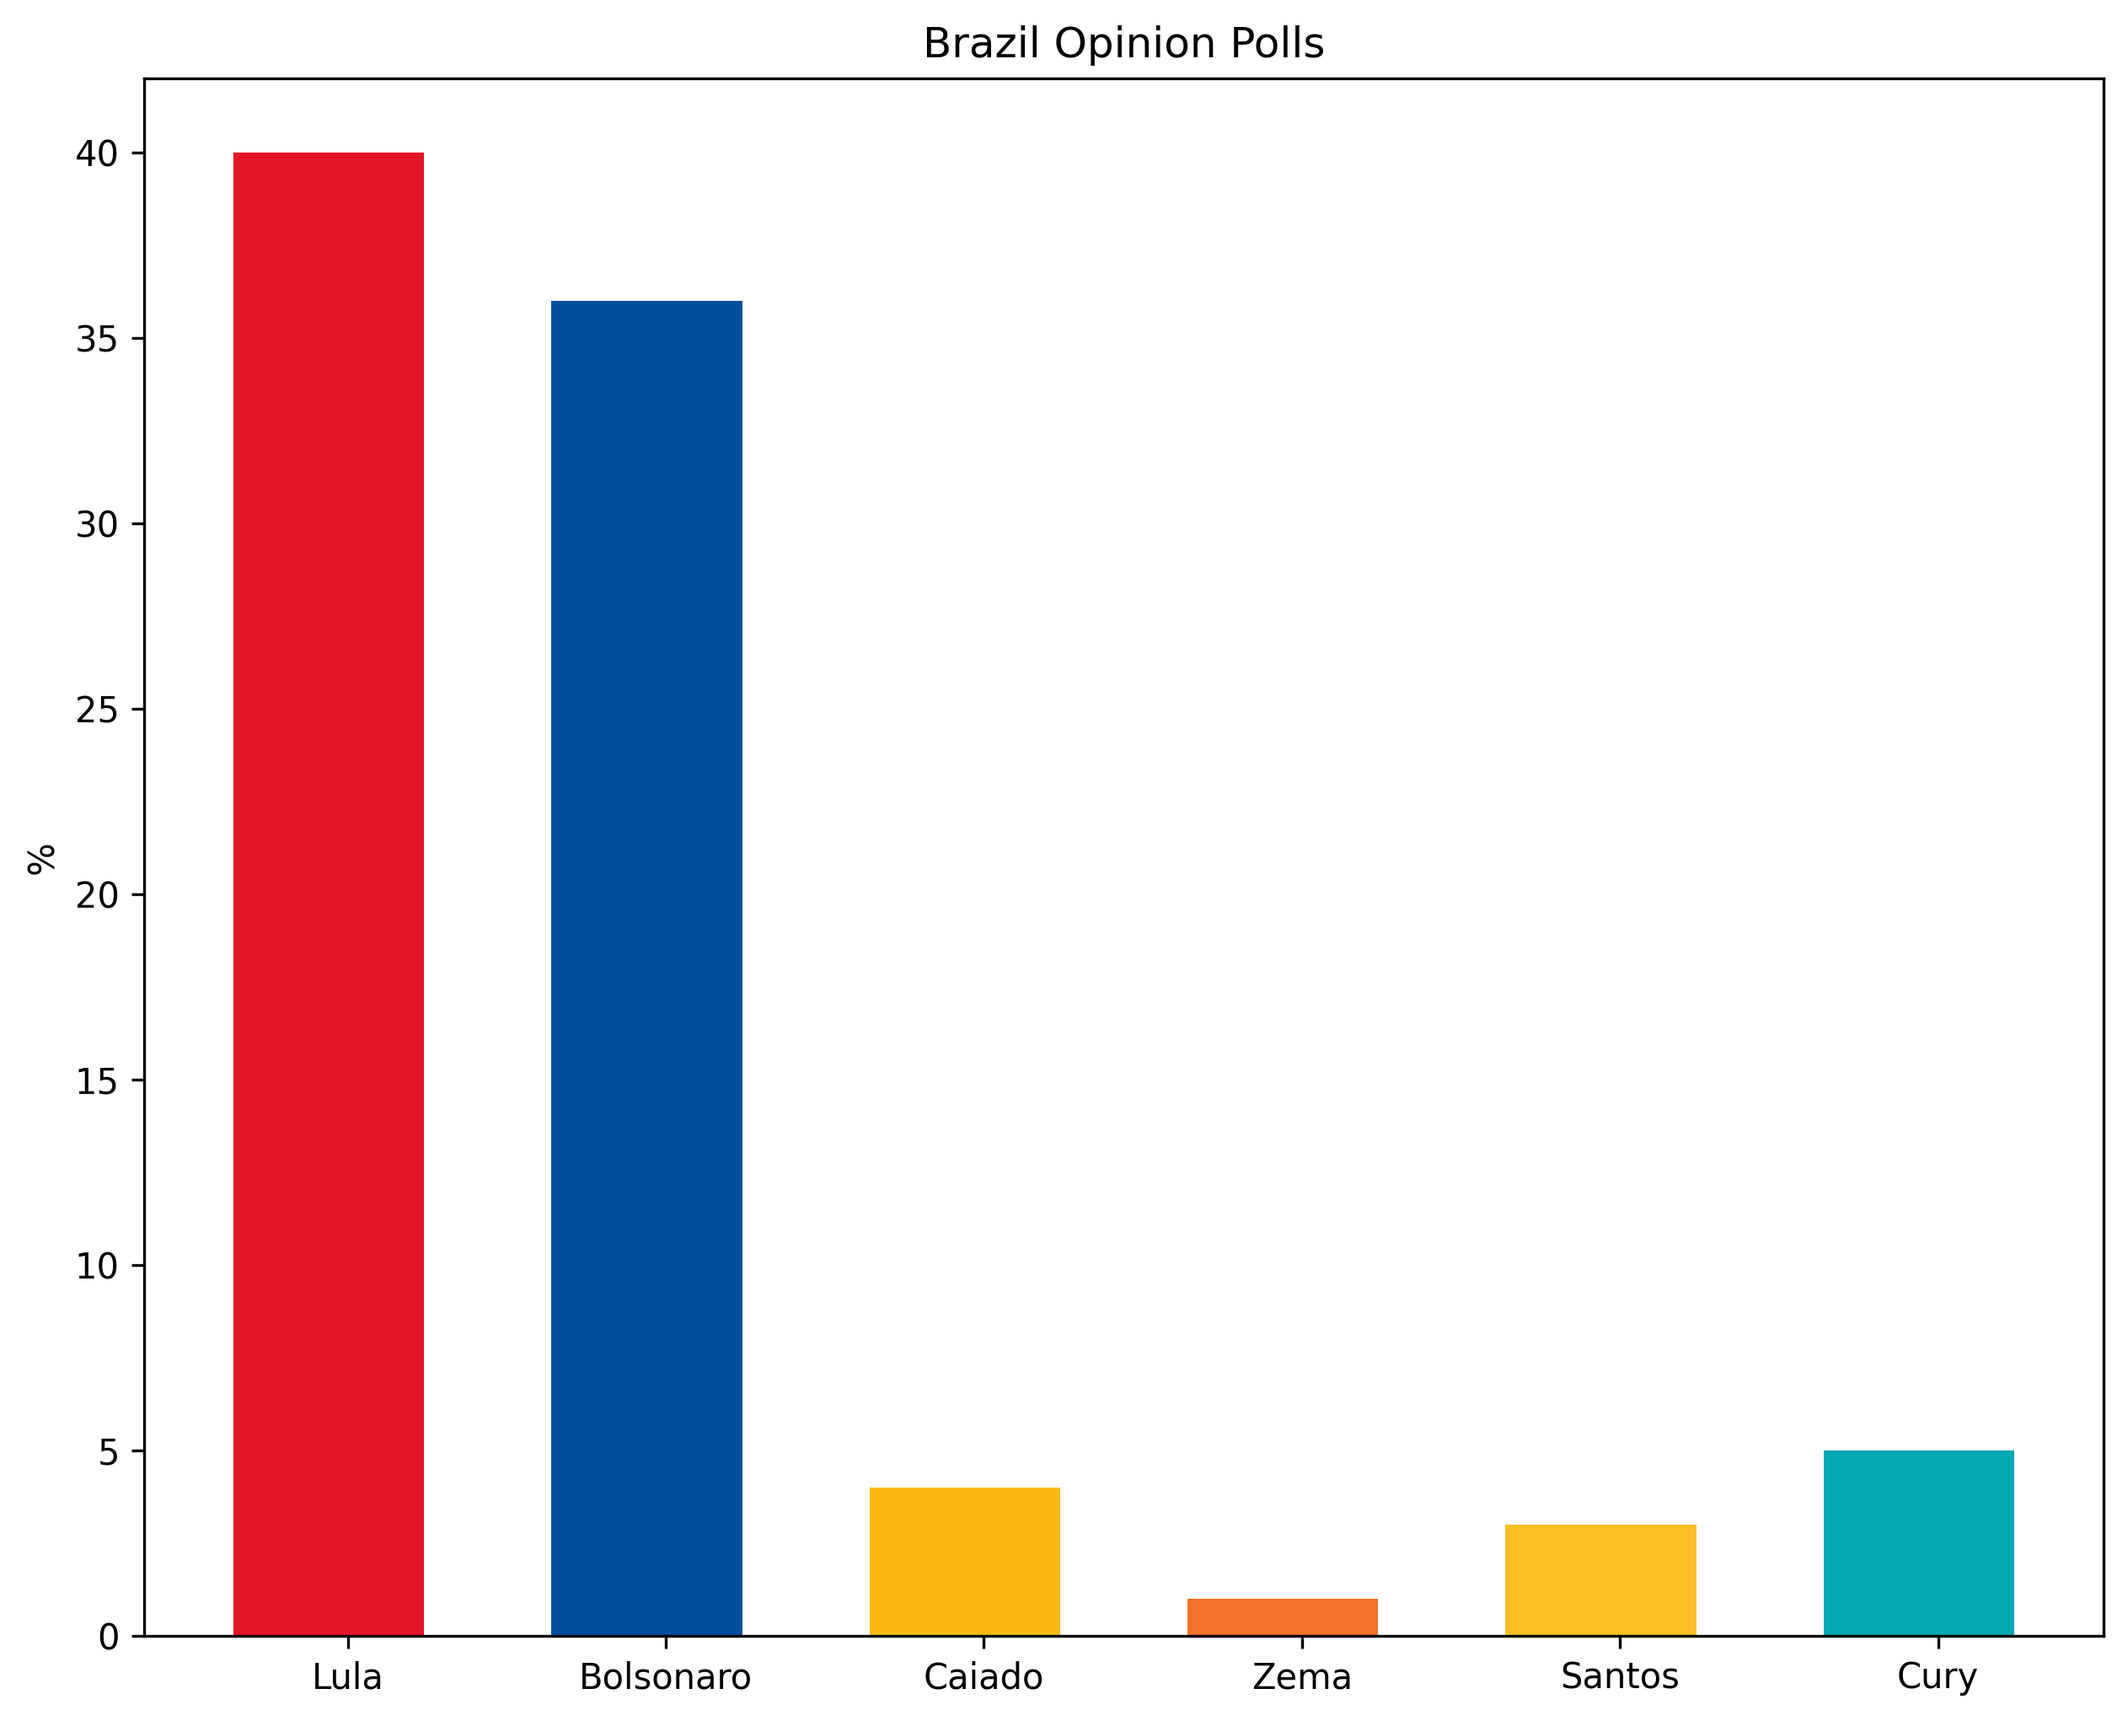
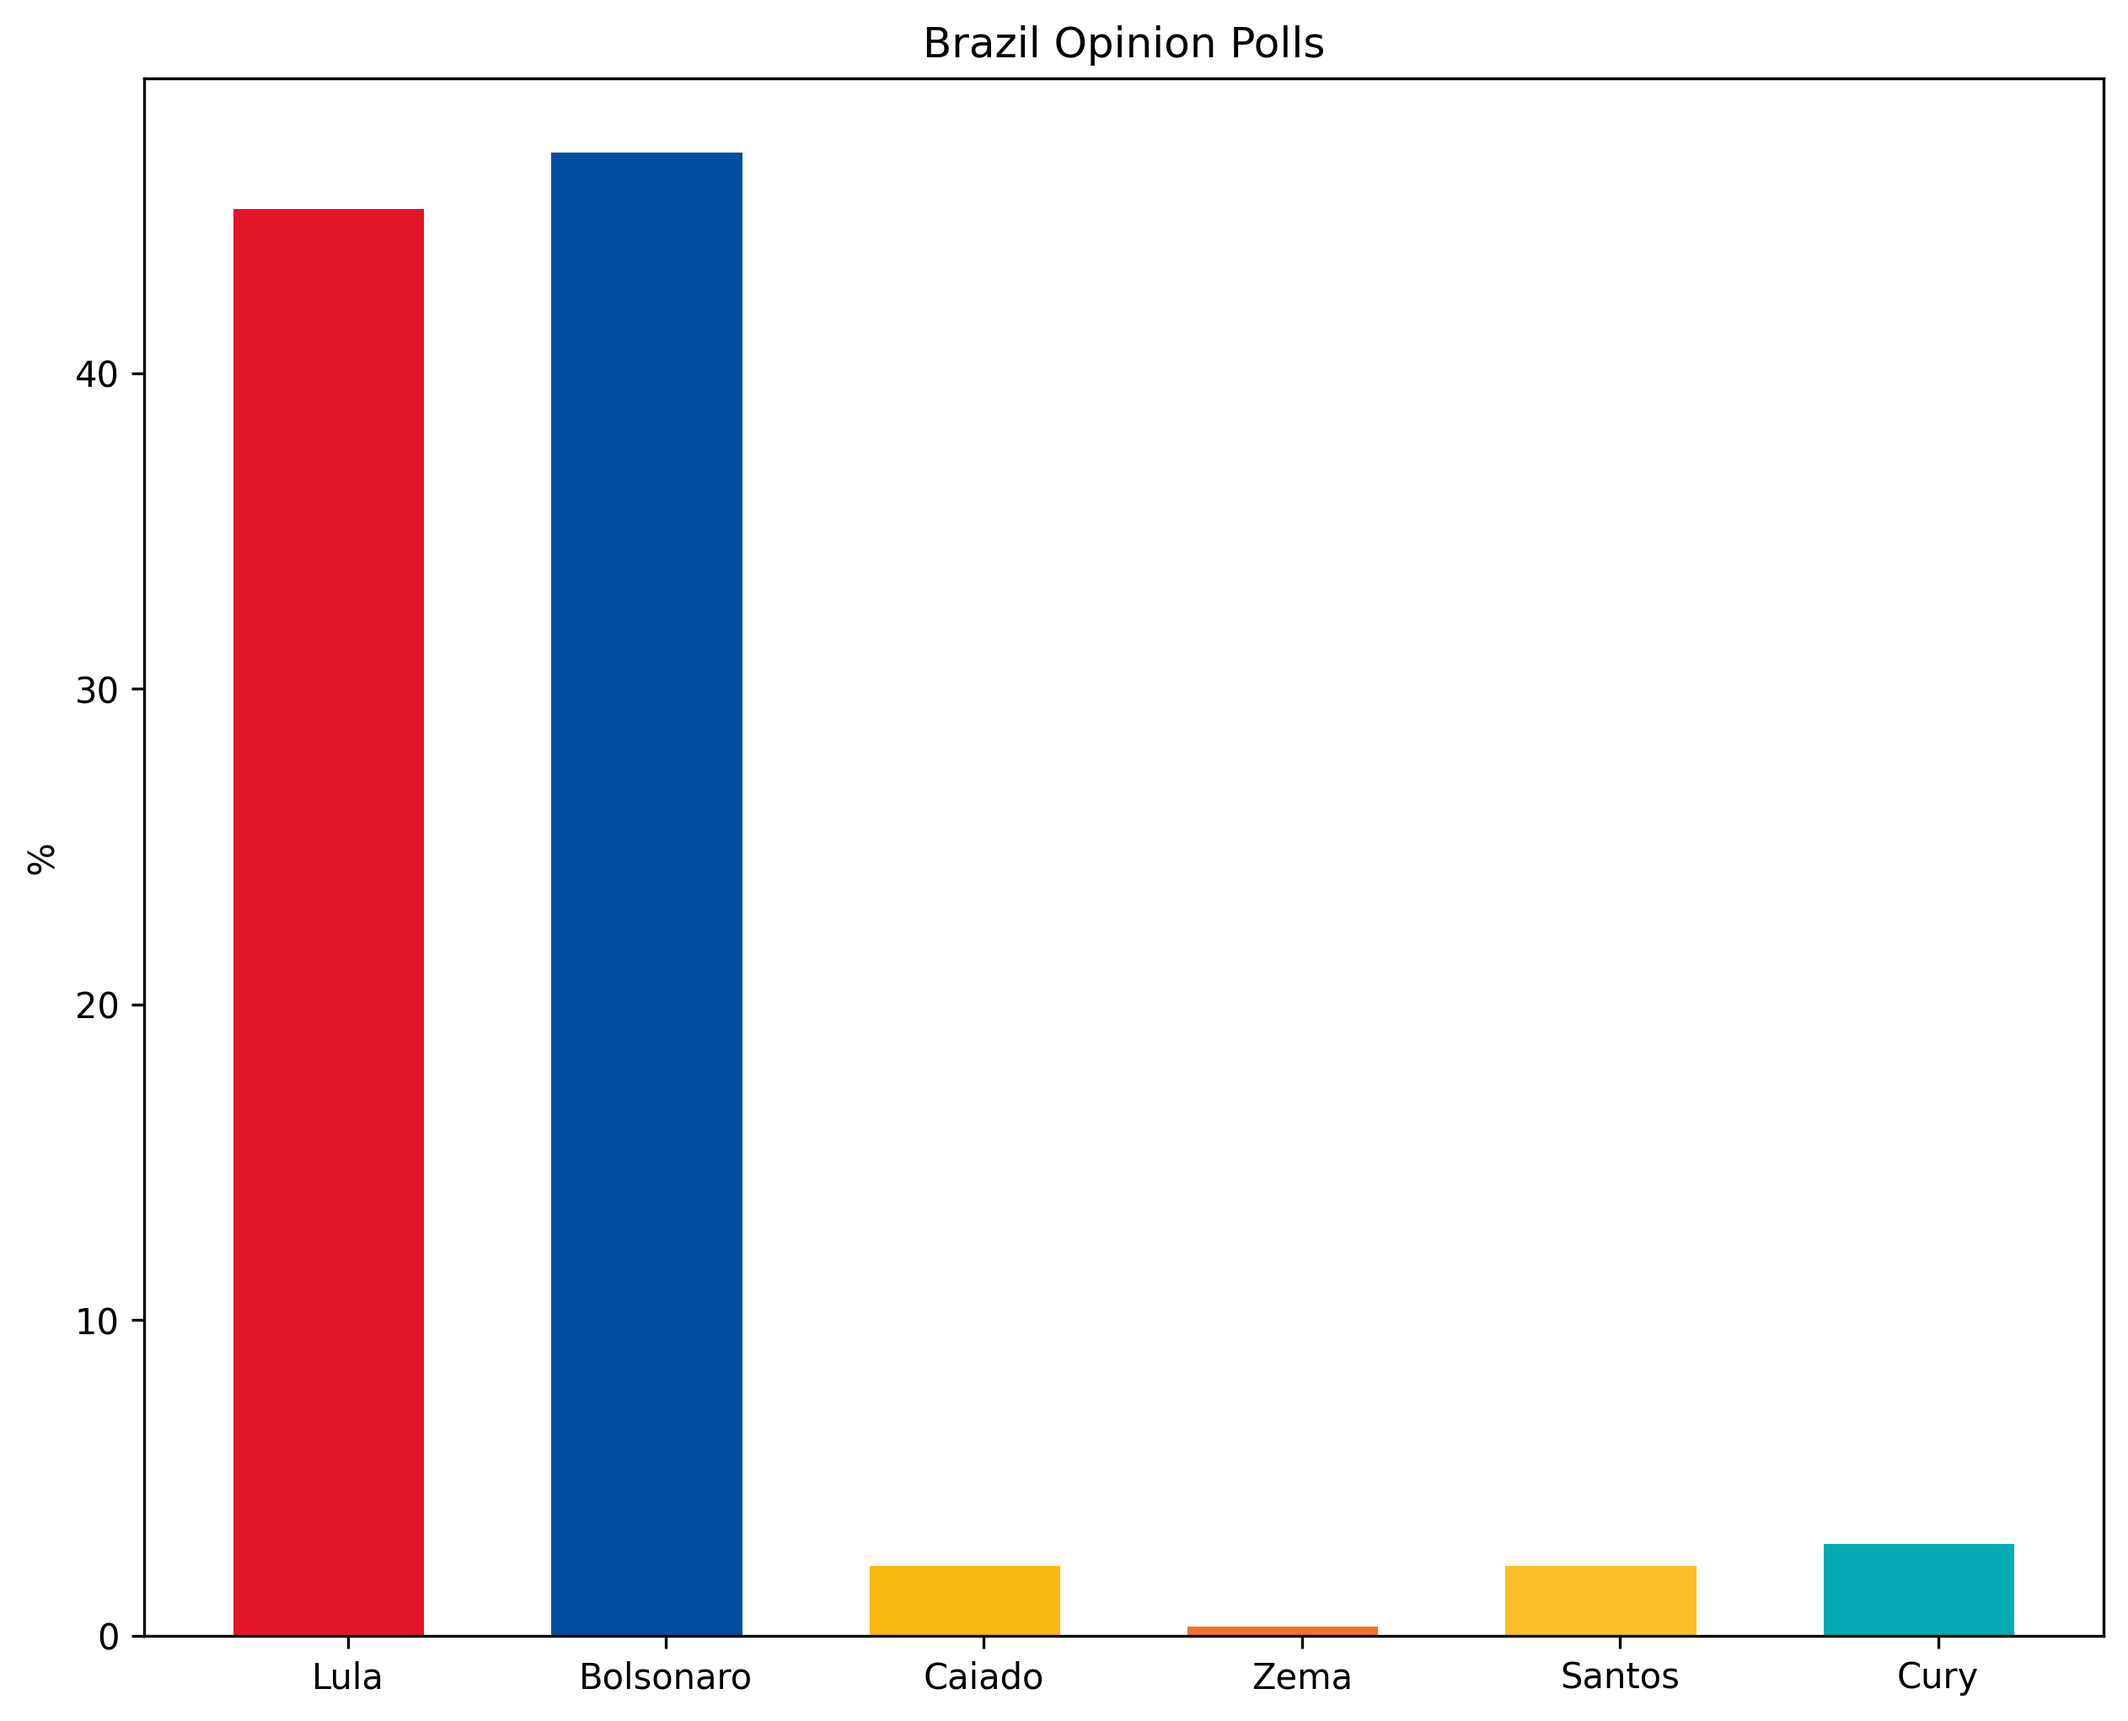
Updated Brazil

diff --git a/America/SouthAmerica/Brazil.py b/America/SouthAmerica/Brazil.py
@@ -2,7 +2,7 @@ import matplotlib.pyplot as plt
 import numpy as np
 
 parties = ['Lula', 'Bolsonaro', 'Caiado', 'Zema', 'Santos', 'Cury']
-polling_2026 = [40.0, 36.0, 4.0, 1.0, 3.0, 5.0]
+polling_2026 = [45.2, 47.0, 2.2, 0.3, 2.2, 2.9]
 results_2026 = [0.10, 0.10, 0.10, 0.10, 0.10, 0.10]
 
 poll_colors = ['#e51529', '#004f9f', '#fbba12', '#f3712a', '#fcbe26', '#03a9b3']
